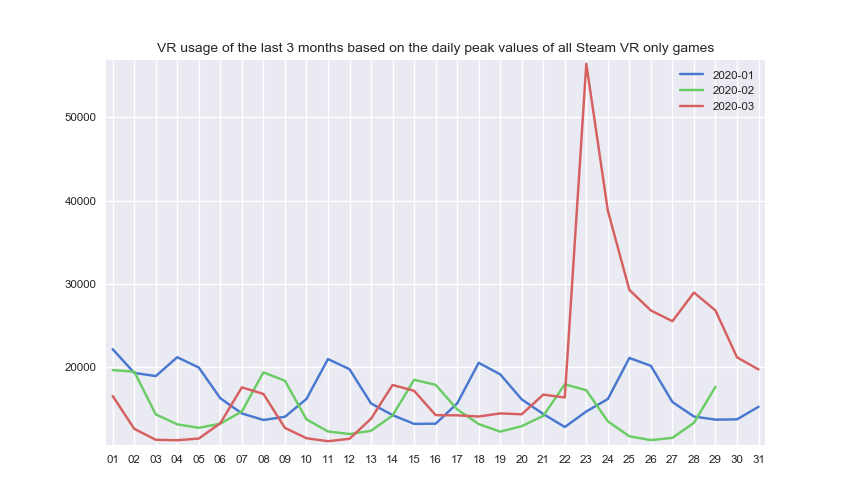
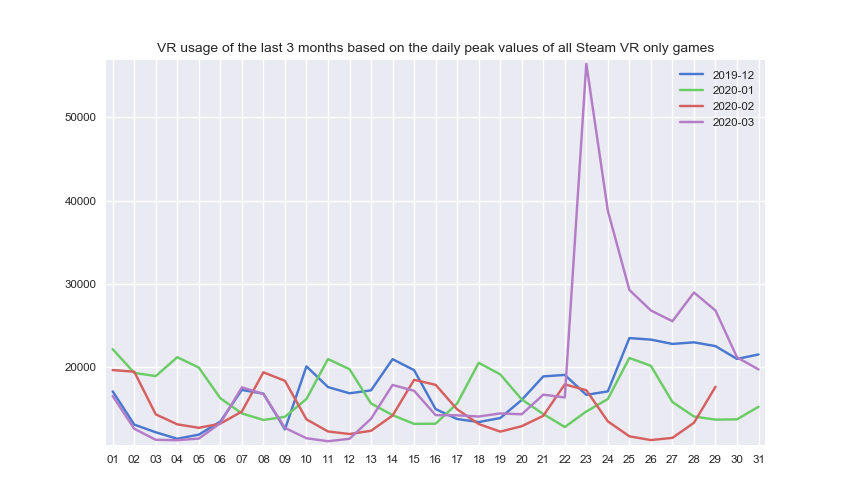
update

diff --git a/src/create_charts.py b/src/create_charts.py
@@ -79,7 +79,7 @@ def create_line_charts(first_day):
     # Chart 2
     plt.subplots()
     chart_title = "VR usage of the last 3 months based on the daily peak values of all Steam VR only games"
-    months = ("2020-01", "2020-02", "2020-03")
+    months = ("2019-12", "2020-01", "2020-02", "2020-03")
     for month in months:
         sql_result = sql.max_peak_players_monthly(month)
         line_chart(sql_result, chart_title, month, location='upper right')
@@ -141,7 +141,7 @@ def create_bar_charts(first_day):
     month = first_day.strftime("%B")
     chart_title = f"The most played Steam VR games in {previous_month}"
     labels = (f'The maximum number of concurrent users in {month}',
-              f'The average daily peak {month}')
+              f'The average daily peak in {month}')
     sql_result = sql.top10_previous_month(first_day)
     sql_result = change_game_title(sql_result)
     bar_chart(sql_result, chart_title, labels)
